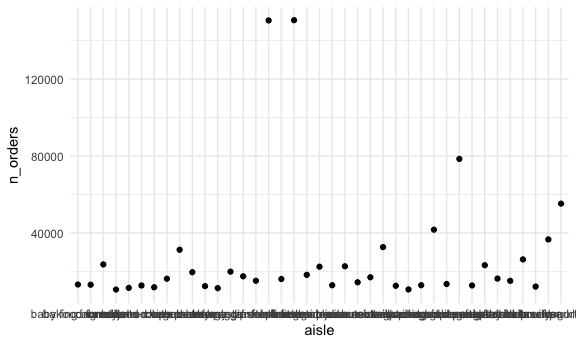
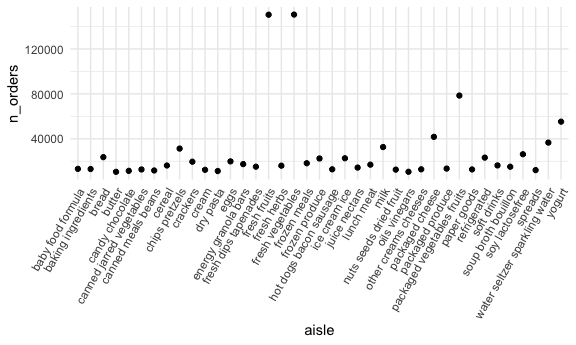
improve order x aisle plot; add table w top 3 orders by aisle; mean_hour_of day for apples & ice cream

diff --git a/p8105_hw3_by2287.md b/p8105_hw3_by2287.md
@@ -37,7 +37,8 @@ instacart %>%
   arrange(desc(n_orders)) %>% 
   filter(n_orders > 10000) %>% 
   ggplot(aes(x = aisle, y = n_orders)) + 
-  geom_point()
+  geom_point() + 
+  theme(axis.text.x = element_text(angle = 60, vjust = 1.0, hjust = 1))
 ```
 
     ## `summarise()` ungrouping output (override with `.groups` argument)
@@ -48,6 +49,46 @@ instacart %>%
 aisles “baking ingredients”, “dog food care”, and “packaged vegetables
 fruits”. Include the number of times each item is ordered in your table.
 
+``` r
+instacart %>% 
+  filter(aisle %in% c("baking ingredients", "dog food care", "packaged vegetables fruits")) %>% 
+  group_by(aisle) %>% 
+  count(product_name) %>% 
+  mutate(
+    rank = min_rank(desc(n))
+      ) %>% 
+  filter(rank %in% c(1,2,3)) %>% 
+  arrange(aisle, rank) %>% 
+  knitr::kable()
+```
+
+| aisle                      | product\_name                                 |    n | rank |
+| :------------------------- | :-------------------------------------------- | ---: | ---: |
+| baking ingredients         | Light Brown Sugar                             |  499 |    1 |
+| baking ingredients         | Pure Baking Soda                              |  387 |    2 |
+| baking ingredients         | Cane Sugar                                    |  336 |    3 |
+| dog food care              | Snack Sticks Chicken & Rice Recipe Dog Treats |   30 |    1 |
+| dog food care              | Organix Chicken & Brown Rice Recipe           |   28 |    2 |
+| dog food care              | Small Dog Biscuits                            |   26 |    3 |
+| packaged vegetables fruits | Organic Baby Spinach                          | 9784 |    1 |
+| packaged vegetables fruits | Organic Raspberries                           | 5546 |    2 |
+| packaged vegetables fruits | Organic Blueberries                           | 4966 |    3 |
+
 3 - Make a table showing the mean hour of the day at which Pink Lady
 Apples and Coffee Ice Cream are ordered on each day of the week; format
 this table for human readers (i.e. produce a 2 x 7 table).
+
+``` r
+instacart %>% 
+  filter(product_name %in% c("Pink Lady Apples", "Coffee Ice Cream")) %>% 
+  group_by(product_name) %>% 
+  summarise(mean_hour = mean(order_hour_of_day)) %>% 
+  knitr::kable(digits = 2)
+```
+
+    ## `summarise()` ungrouping output (override with `.groups` argument)
+
+| product\_name    | mean\_hour |
+| :--------------- | ---------: |
+| Coffee Ice Cream |      14.27 |
+| Pink Lady Apples |      12.39 |
